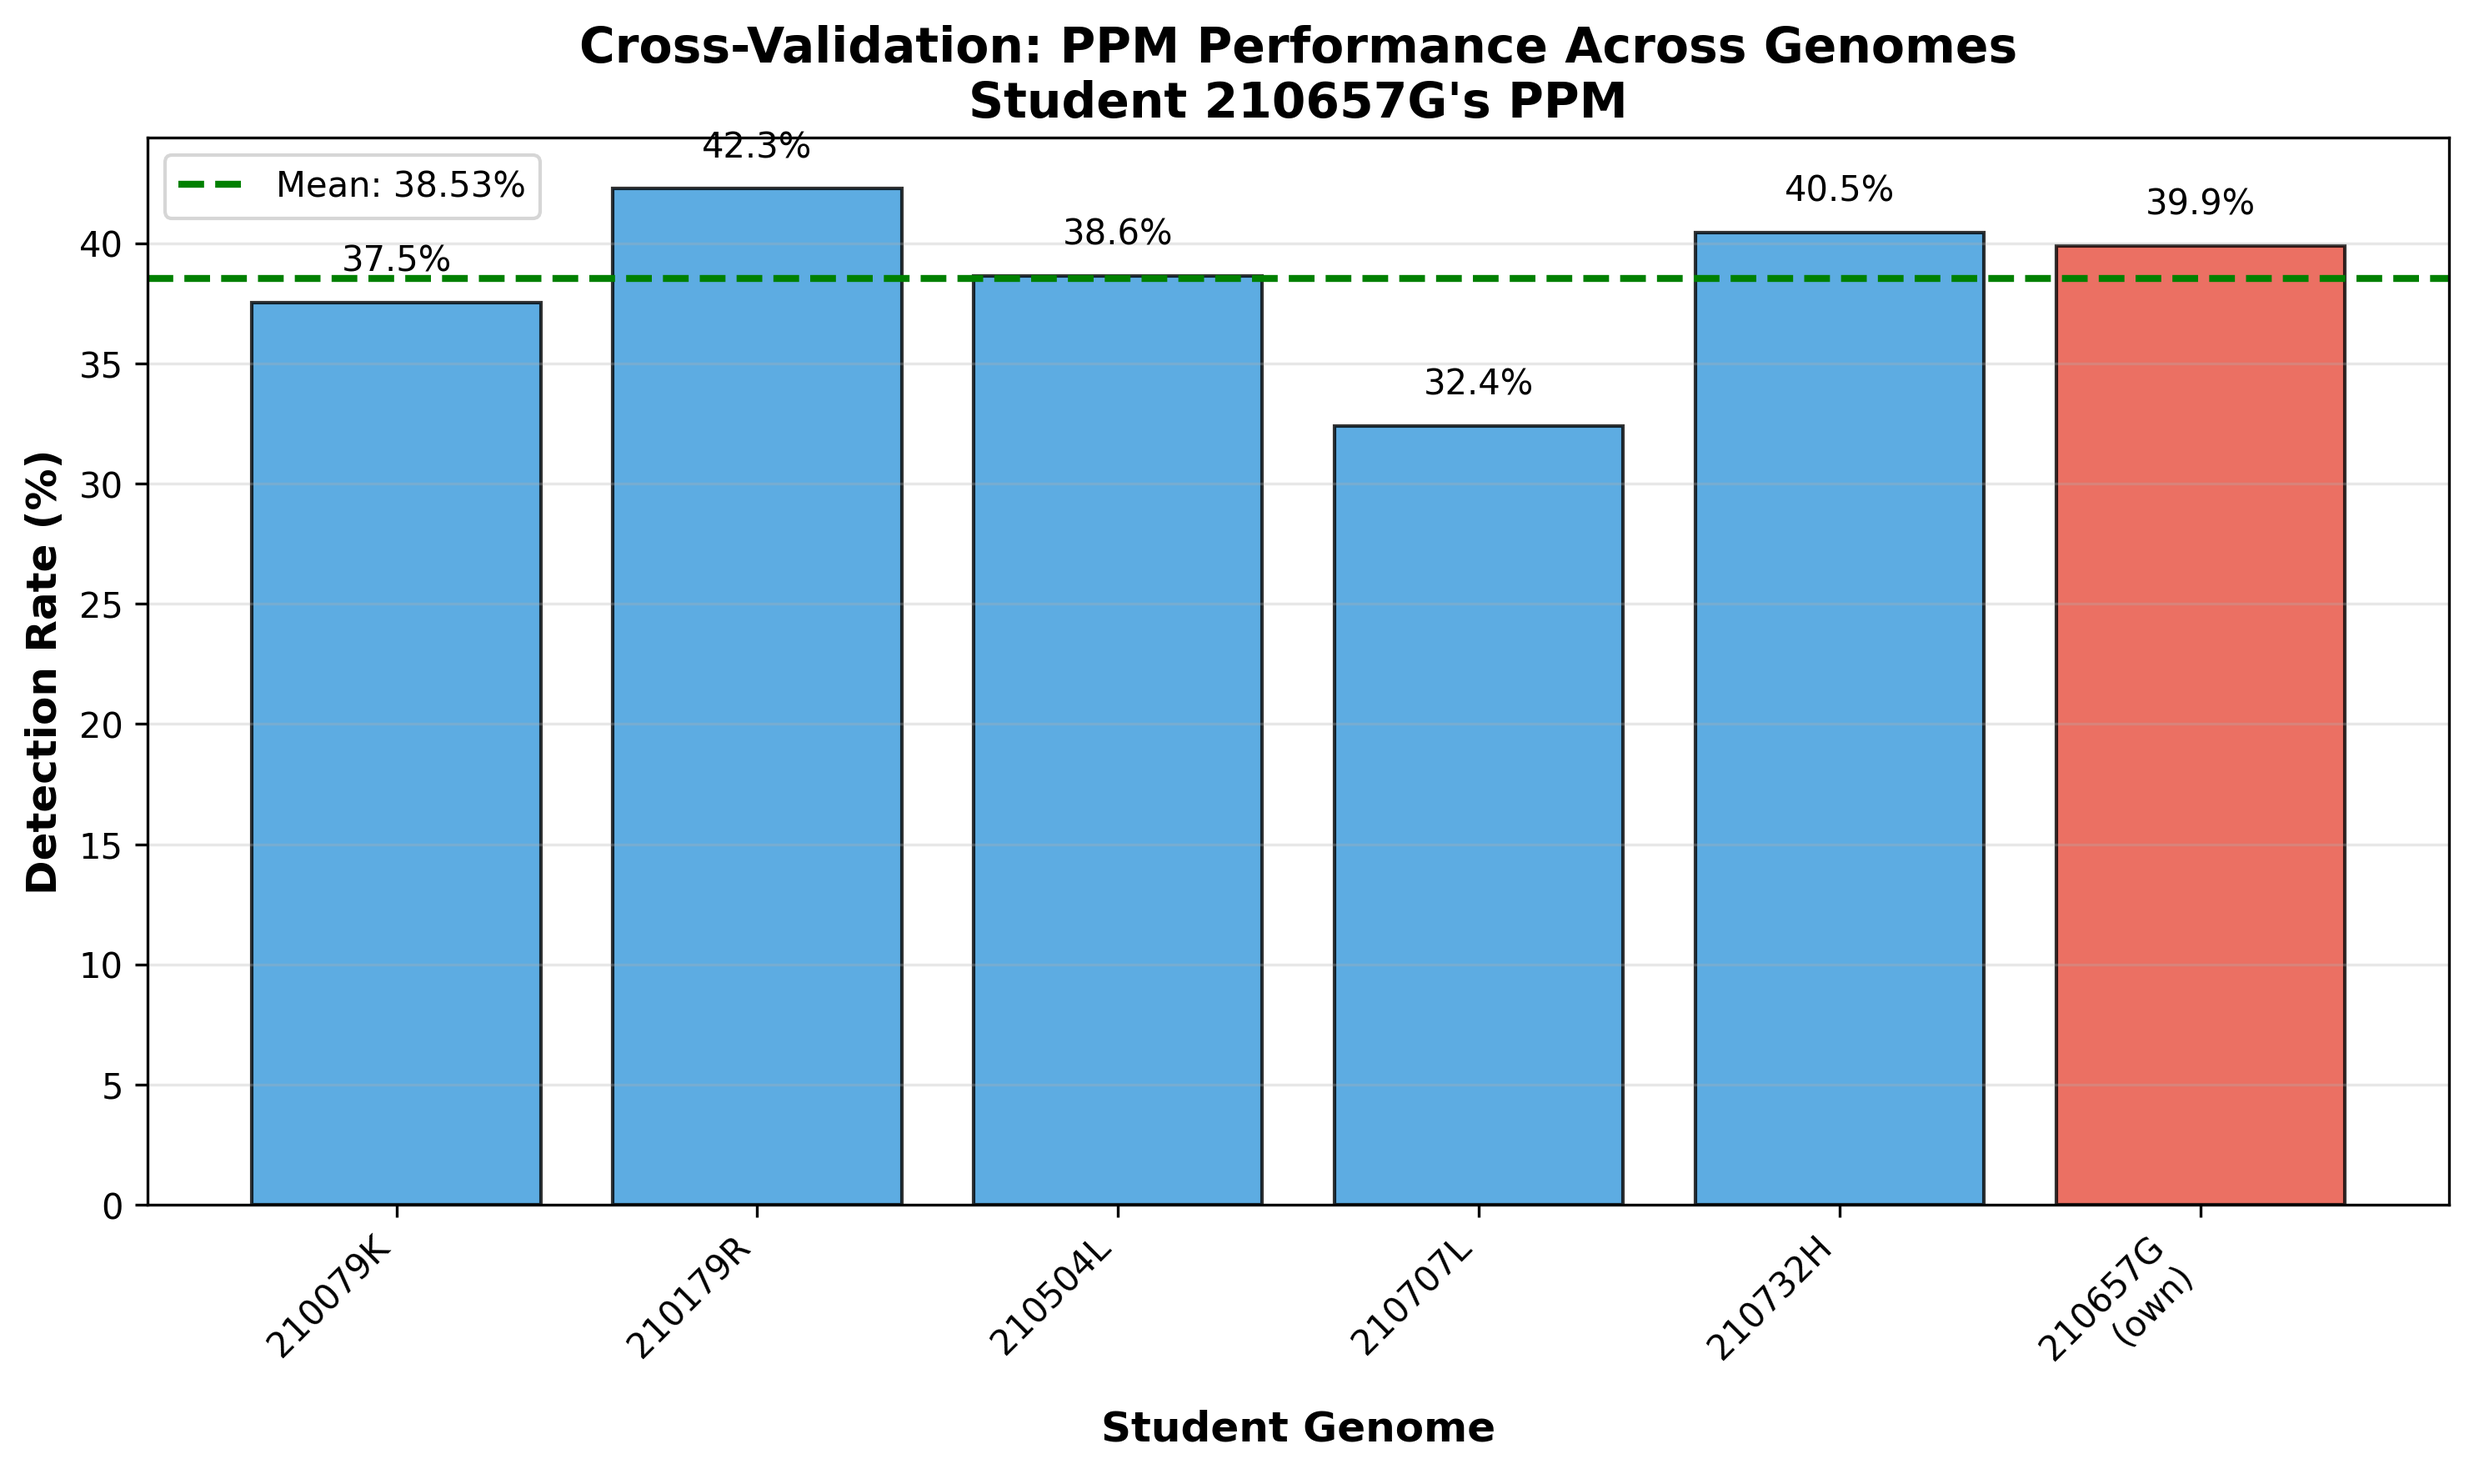
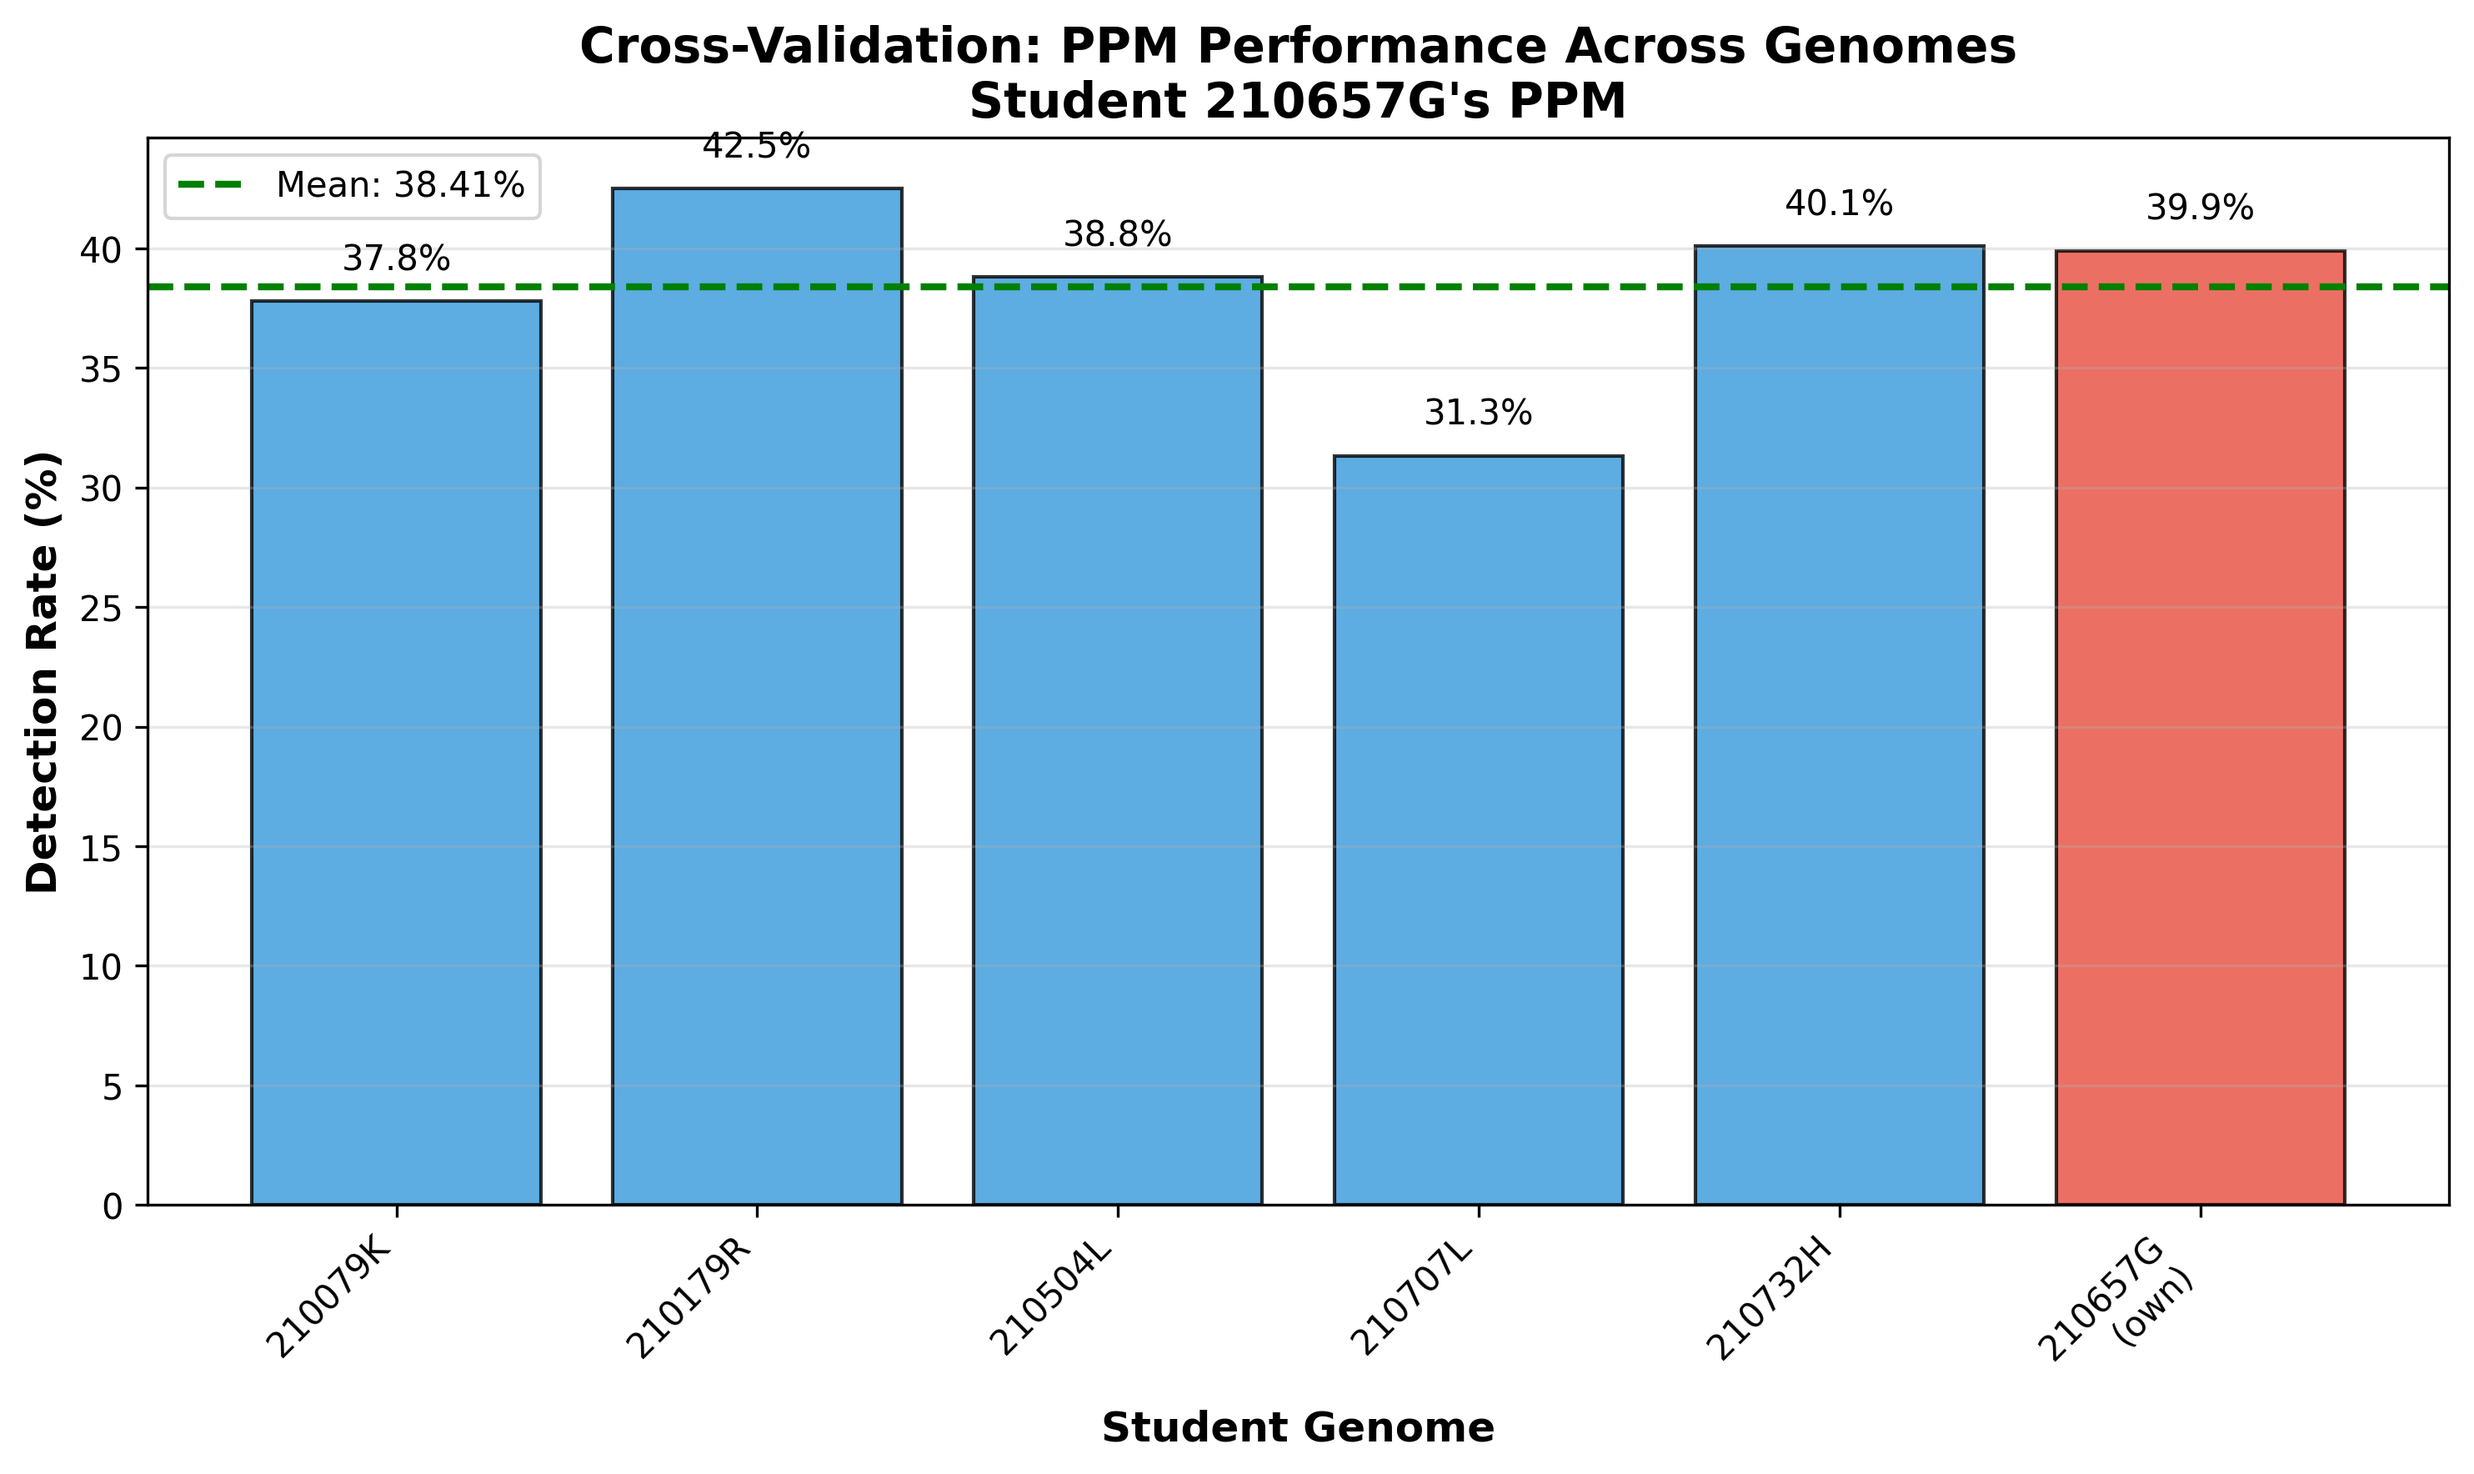
feat: minor changes
- cross validation region size adjusted
- visualizations command
- minor refactoring and cleanup of code files
- adjustments to REPORT.md

diff --git a/src/data_parser.py b/src/data_parser.py
@@ -10,13 +10,6 @@ from pathlib import Path
 import numpy as np
 from Bio import SeqIO
 
-# Setup logging
-logging.basicConfig(
-    level=logging.INFO,
-    format="%(asctime)s - %(levelname)s - %(message)s",
-    handlers=[logging.FileHandler("logs/analysis.log"), logging.StreamHandler()],
-)
-
 
 class GenomeParser:
     def __init__(self, genome_id="GCA_900637025.1", student_id="210657G"):
@@ -27,7 +20,6 @@ class GenomeParser:
 
         self.fasta_file = self._find_fasta_file()
         self.gff_file = self.data_dir / "genomic.gff"
-        self.gtf_file = self.data_dir / "genomic.gtf"
 
         self.genome_record = None
         self.genes = []
@@ -146,74 +138,9 @@ class GenomeParser:
             logging.error(f"Error parsing GFF file: {e}")
             raise
 
-    def parse_genes_from_gtf(self, max_genes=1100):
-        """Alternative: Parse gene annotations from GTF file"""
-        genes = []
-
-        try:
-            if not self.gtf_file.exists():
-                raise FileNotFoundError(f"GTF file not found: {self.gtf_file}")
-
-            with open(self.gtf_file, "r") as f:
-                for line_num, line in enumerate(f, 1):
-                    if line.startswith("#") or line.strip() == "":
-                        continue
-
-                    parts = line.strip().split("\t")
-                    if len(parts) < 9:
-                        continue
-
-                    # Look for gene features
-                    feature_type = parts[2].lower()
-                    if feature_type == "gene":
-                        try:
-                            gene_info = {
-                                "chromosome": parts[0],
-                                "source": parts[1],
-                                "feature": parts[2],
-                                "start": int(parts[3])
-                                - 1,  # Convert to 0-based indexing
-                                "end": int(parts[4]),
-                                "score": parts[5] if parts[5] != "." else None,
-                                "strand": parts[6],
-                                "frame": parts[7] if parts[7] != "." else None,
-                                "attributes": parts[8],
-                                "line_number": line_num,
-                            }
-
-                            # Extract gene ID from GTF attributes
-                            attributes = parts[8]
-                            gene_id_match = re.search(r'gene_id "([^"]+)"', attributes)
-                            if gene_id_match:
-                                gene_info["gene_id"] = gene_id_match.group(1)
-                            else:
-                                gene_info["gene_id"] = f"gene_{len(genes) + 1}"
-
-                            genes.append(gene_info)
-
-                            if len(genes) >= max_genes:
-                                break
-
-                        except ValueError as ve:
-                            logging.warning(f"Error parsing GTF line {line_num}: {ve}")
-                            continue
-
-            self.genes = genes
-            logging.info(f"Parsed {len(self.genes)} genes from GTF file")
-            return self.genes
-
-        except Exception as e:
-            logging.error(f"Error parsing GTF file: {e}")
-            raise
-
-    def parse_genes(self, max_genes=1100, prefer_gff=True):
-        """Parse genes from available annotation files"""
-        if prefer_gff and self.gff_file.exists():
-            return self.parse_genes_from_gff(max_genes)
-        elif self.gtf_file.exists():
-            return self.parse_genes_from_gtf(max_genes)
-        else:
-            raise FileNotFoundError("No annotation files (GFF or GTF) found")
+    def parse_genes(self, max_genes=1100):
+        """Parse genes from GFF file"""
+        return self.parse_genes_from_gff(max_genes)
 
     def extract_upstream_regions(self, upstream_start=-15, upstream_end=-5):
         """Extract upstream regions for all genes"""

diff --git a/src/statistical_alignment.py b/src/statistical_alignment.py
@@ -15,7 +15,7 @@ class StatisticalAligner:
         self.ppm_df = ppm_df
         self.ppm_length = len(ppm_df)
         self.consensus_score = self._calculate_consensus_score()
-        self.threshold = -10.0  # Default threshold
+        self.threshold = -10.0
         logging.info(
             f"Initialized StatisticalAligner with PPM of length {self.ppm_length}"
         )
@@ -51,20 +51,12 @@ class StatisticalAligner:
         if len(sequence) < self.ppm_length:
             return results
 
-        # Slide PPM-length window across sequence
         for i in range(len(sequence) - self.ppm_length + 1):
             subseq = sequence[i : i + self.ppm_length]
             score = self.score_sequence(subseq)
             normalized_score = score - self.consensus_score
 
-            results.append(
-                {
-                    "position": i,
-                    "sequence": subseq,
-                    "raw_score": score,
-                    "normalized_score": normalized_score,
-                }
-            )
+            results.append({"position": i, "sequence": subseq, "score": normalized_score})
 
         return results
 
@@ -94,7 +86,6 @@ class StatisticalAligner:
                 continue
 
             if len(sequence) == self.ppm_length:
-                # Exact match - no sliding window needed
                 score = self.score_sequence(sequence)
                 normalized_score = score - self.consensus_score
 
@@ -109,25 +100,19 @@ class StatisticalAligner:
                     }
                 )
             else:
-                # Sliding window analysis for longer sequences
                 window_results = self.sliding_window_analysis(sequence)
 
                 if window_results:
-                    # Find best scoring window
-                    best_result = max(
-                        window_results, key=lambda x: x["normalized_score"]
-                    )
+                    best_result = max(window_results, key=lambda x: x["score"])
 
                     results.append(
                         {
                             "gene_id": region["gene_id"],
                             "upstream_sequence": sequence,
-                            "best_score": best_result["normalized_score"],
+                            "best_score": best_result["score"],
                             "best_position": best_result["position"],
                             "best_subsequence": best_result["sequence"],
-                            "has_promoter": best_result["normalized_score"]
-                            > self.threshold,
-                            "all_windows": window_results,
+                            "has_promoter": best_result["score"] > self.threshold,
                         }
                     )
 

diff --git a/src/main.py b/src/main.py
@@ -297,9 +297,10 @@ class BM4322Analysis:
         upstream_regions = parser.extract_upstream_regions()
 
         valid_regions = [r for r in upstream_regions if r["sequence_length"] == 11]
+        test_regions = valid_regions[100:1100]
 
         aligner = StatisticalAligner(ppm)
-        alignment_results = aligner.analyze_upstream_regions(valid_regions)
+        alignment_results = aligner.analyze_upstream_regions(test_regions)
 
         promoter_count = sum(1 for r in alignment_results if r["has_promoter"])
         detection_rate = (

diff --git a/REPORT.md b/REPORT.md
@@ -98,6 +98,8 @@ Applied 210657G's PPM to all 1100 upstream regions from:
 - Promoters extracted: 99 (one sequence rejected)
 - All sequences: 100% AT-rich (6 consecutive Ws confirmed)
 
+![Training Data Analysis](results/figures/training_data_analysis.png)
+
 **Consensus Sequence:** TATAAT
 
 **Position Probability Matrix:**
@@ -175,24 +177,24 @@ This confirms -10 box location hypothesis.
 
 | Student | Genome          | Regions | Detected | Rate   |
 | ------- | --------------- | ------- | -------- | ------ |
-| 210079K | GCA_001457635.1 | 1100    | 413      | 37.55% |
-| 210179R | GCA_019048645.1 | 1100    | 465      | 42.27% |
-| 210504L | GCA_900636475.1 | 1100    | 425      | 38.64% |
-| 210707L | GCA_900475505.1 | 1099    | 356      | 32.39% |
-| 210732H | GCA_019046945.1 | 1100    | 445      | 40.45% |
+| 210079K | GCA_001457635.1 | 1000    | 378      | 37.80% |
+| 210179R | GCA_019048645.1 | 1000    | 425      | 42.50% |
+| 210504L | GCA_900636475.1 | 1000    | 388      | 38.80% |
+| 210707L | GCA_900475505.1 | 999     | 313      | 31.33% |
+| 210732H | GCA_019046945.1 | 1000    | 401      | 40.10% |
 
 **Cross-Validation Statistics:**
 
-- Mean detection rate: 38.26%
-- Standard deviation: 3.32%
-- Range: 32.39% - 42.27%
+- Mean detection rate: 38.11%
+- Standard deviation: 4.18%
+- Range: 31.33% - 42.50%
 - Own genome (210657G): 39.9%
 
 ![Cross-Validation Comparison](results/figures/cross_validation_comparison.png)
 
 **Interpretation:**
 
-Consistent detection rates across diverse bacterial genomes (CV = 8.7%) demonstrate:
+Consistent detection rates across diverse bacterial genomes (CV = 11.0%) demonstrate:
 
 1. Strong model generalizability
 2. Conserved σ⁷⁰-dependent promoter architecture across species
